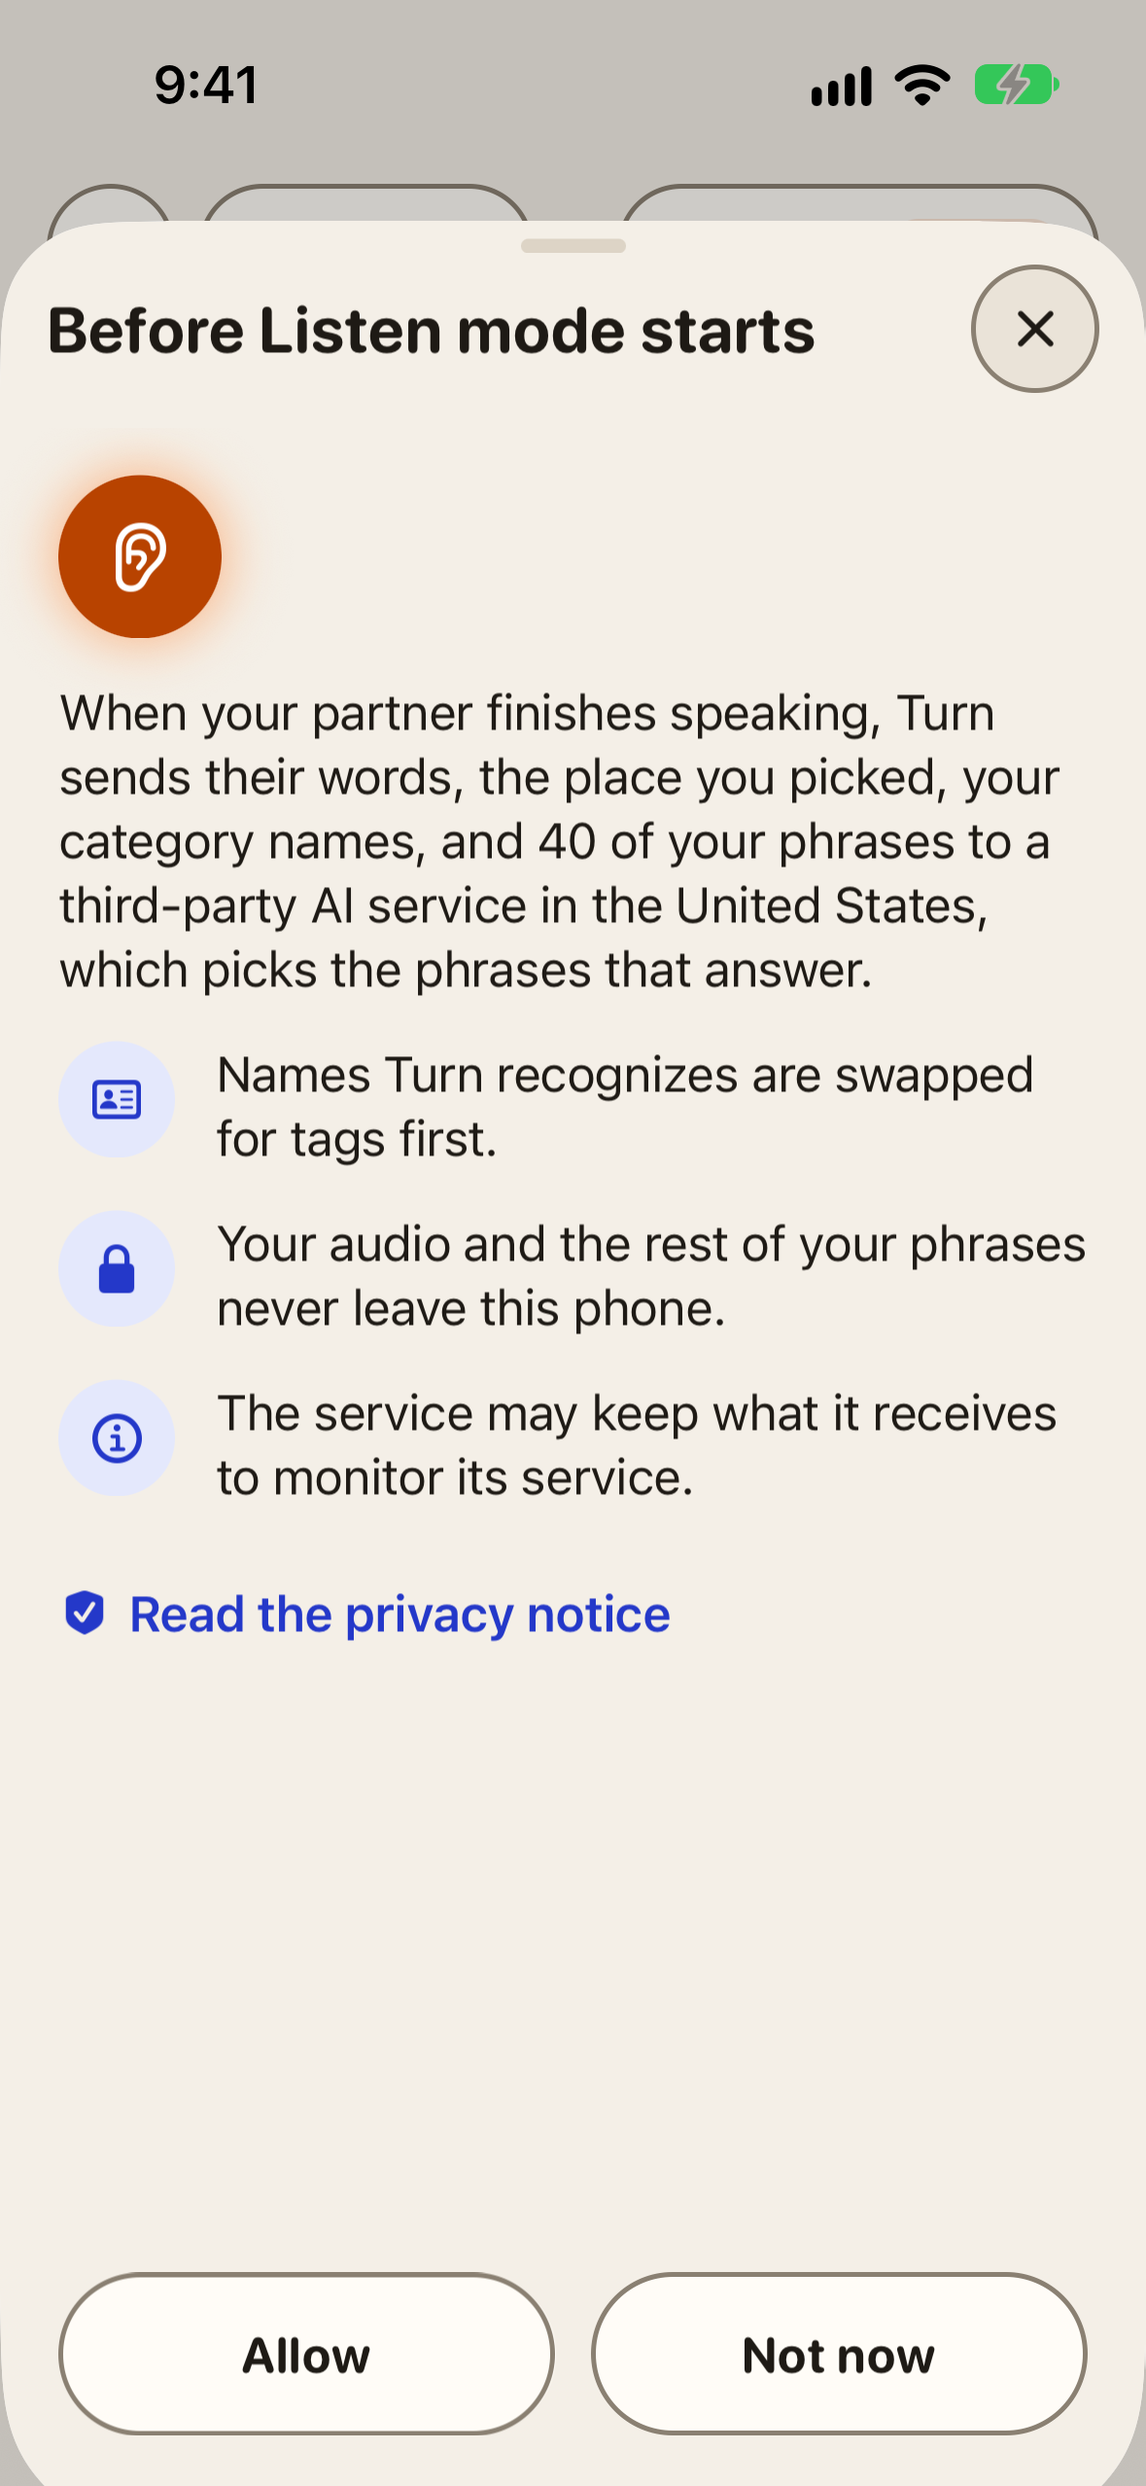
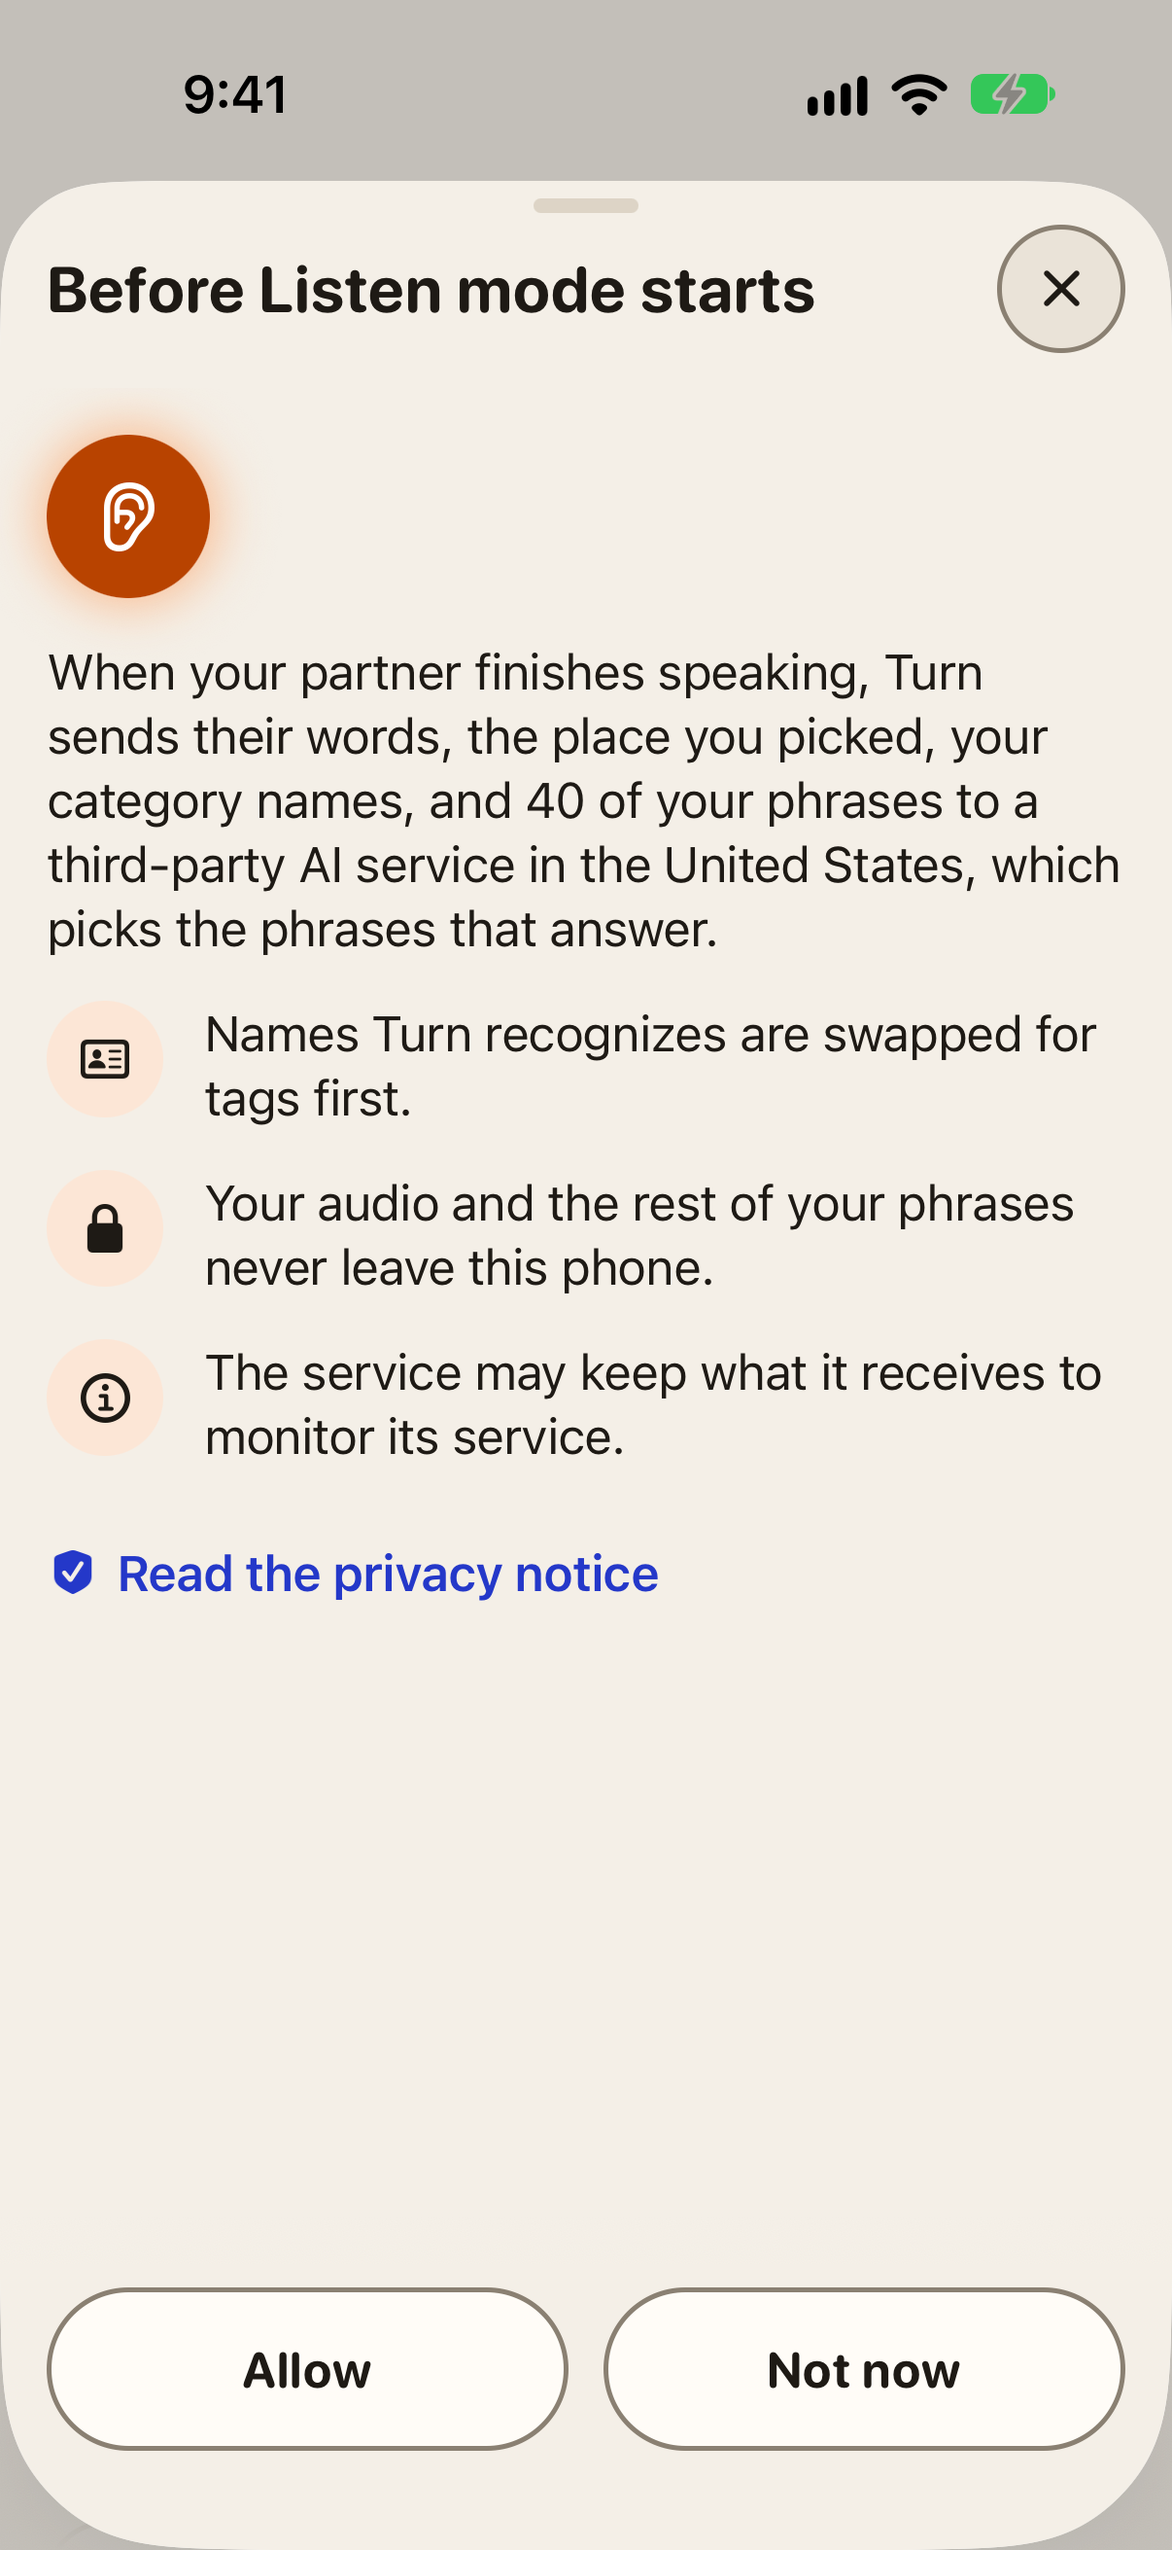
docs: refresh README captures and companion guide

Changed region(s): [[0.0, 0.0, 1.0, 0.68], [0.5191, 0.8963, 1.0, 1.0], [0.0, 0.8963, 0.4885, 1.0]]

diff --git a/scripts/render-pitch-assets.py b/scripts/render-pitch-assets.py
@@ -84,8 +84,8 @@ def hero(dark: bool) -> None:
     text(draw, (162, 332), "Turn", 158, foreground, 700)
     text(draw, (168, 545), "SPEAK / LISTEN / REPLY", 38, muted, 700)
     draw.line((166, 630, 686, 630), fill=muted, width=3)
-    rounded_image(canvas, Image.open(OUT / "turn-iphone16-ios27.png"), (910, 48), 764, 32)
-    rounded_image(canvas, Image.open(OUT / "listen-consent.png"), (1340, 48), 764, 32)
+    rounded_image(canvas, Image.open(OUT / "turn-iphone18-pro-ios27.png"), (910, 48), 764, 32)
+    rounded_image(canvas, Image.open(OUT / "listen-consent-iphone18-pro-ios27.png"), (1340, 48), 764, 32)
     canvas.convert("RGB").save(OUT / ("readme-hero-dark.png" if dark else "readme-hero-light.png"), optimize=True)
 
 
@@ -121,6 +121,8 @@ def aha() -> None:
 
 if __name__ == "__main__":
     assert Image.open(OUT / "turn-iphone16-ios27.png").size == (1179, 2556)
+    assert Image.open(OUT / "turn-iphone18-pro-ios27.png").size == (1206, 2622)
+    assert Image.open(OUT / "listen-consent-iphone18-pro-ios27.png").size == (1206, 2622)
     thumbnail()
     gallery(
         "devpost-gallery-replies.png",

diff --git a/README.md b/README.md
@@ -7,7 +7,7 @@
   <a href="https://github.com/M1KUAPP/Turn">
     <picture>
       <source media="(prefers-color-scheme: dark)" srcset="assets/pitch/readme-hero-dark.png">
-      <img src="assets/pitch/readme-hero-light.png" alt="Turn app icon beside the Listen consent screen and a conversation where How was physio? has It was hard ready to say.">
+      <img src="assets/pitch/readme-hero-light.png" alt="Turn app icon beside iPhone 18 Pro captures of the Clinic reply row and partner consent card.">
     </picture>
   </a>
 
@@ -101,11 +101,15 @@ The hosted decision model's top 6 leads embeddings by 29.7 points, with a 95% pa
 
 ### Screenshots
 
-|                                                                  Speaking grid                                                                  |                                                                 Partner consent                                                                 |                                                               Suggested replies                                                                |
-| :---------------------------------------------------------------------------------------------------------------------------------------------: | :---------------------------------------------------------------------------------------------------------------------------------------------: | :--------------------------------------------------------------------------------------------------------------------------------------------: |
-| <img src="assets/readme/screenshots/speaking-grid.png" alt="Clinic speaking grid with conversation phrases and the Quick category" width="240"> |   <img src="assets/readme/screenshots/partner-consent.png" alt="Consent card asking whether Turn may listen to the conversation" width="240">   | <img src="assets/readme/screenshots/suggested-replies.png" alt="Turn offers saved replies after the partner asks How was physio?" width="240"> |
-|                                                             **Phrase bank editor**                                                              |                                                             **Turn Listen paywall**                                                             |                                                                  **Settings**                                                                  |
-|   <img src="assets/readme/screenshots/phrase-bank-editor.png" alt="Chat category in the phrase bank with editable saved phrases" width="240">   | <img src="assets/readme/screenshots/turn-listen-paywall.png" alt="Turn Listen paywall with three promises and a one-time purchase" width="240"> | <img src="assets/readme/screenshots/settings.png" alt="Turn Settings with voice, Listen mode, phrase bank, and purchase options" width="240">  |
+|                                                                                       Speaking grid                                                                                        |                                                                                      Partner consent                                                                                      |                                                                                         Suggested replies                                                                                         |
+| :----------------------------------------------------------------------------------------------------------------------------------------------------------------------------------------: | :---------------------------------------------------------------------------------------------------------------------------------------------------------------------------------------: | :-----------------------------------------------------------------------------------------------------------------------------------------------------------------------------------------------: |
+| <img src="assets/readme/screenshots/speaking-grid.png" alt="Clinic speaking grid with the conversation strip, Quick phrases, and floating Type, Repeat, Up, and Down toolbar" width="240"> | <img src="assets/readme/screenshots/partner-consent.png" alt="Partner consent card explaining Listen mode, with an under-18 switch and They agreed and They said no buttons" width="240"> | <img src="assets/readme/screenshots/suggested-replies.png" alt="Clinic reply row offering It went well, It was hard, It’s getting worse, and I’m good, thanks after How was physio?" width="240"> |
+|                                                                                   **Phrase bank editor**                                                                                   |                                                                                  **Turn Listen paywall**                                                                                  |                                                                                           **Settings**                                                                                            |
+|     <img src="assets/readme/screenshots/phrase-bank-editor.png" alt="Chat phrase bank with starter phrases, pencil edit buttons, and controls to reorder or add phrases" width="240">      |   <img src="assets/readme/screenshots/turn-listen-paywall.png" alt="Turn Listen paywall showing Keep Listen mode on, a US$24.99 one-time purchase, and Restore Purchases" width="240">    |    <img src="assets/readme/screenshots/settings.png" alt="Settings with voice and speech rate, Companion Off, Listen service Working, places, phrase bank, and purchase options" width="240">     |
+
+|                                                                     **Choose a companion**                                                                     |                                                             **Home with Ren**                                                              |                                                                        **Partner view**                                                                         |
+| :------------------------------------------------------------------------------------------------------------------------------------------------------------: | :----------------------------------------------------------------------------------------------------------------------------------------: | :-------------------------------------------------------------------------------------------------------------------------------------------------------------: |
+| <img src="assets/readme/screenshots/companion-settings.png" alt="Companion settings with Ren, Suit, Office, and Ice face choices and Let it move" width="240"> | <img src="assets/readme/screenshots/companion-home.png" alt="Ren beside Home’s floating toolbar, below the Quick phrase grid" width="240"> | <img src="assets/readme/screenshots/companion-partner-view.png" alt="Partner view with Ren, I have something to say in big text, and Say it again" width="240"> |
 
 <p align="right"><a href="#readme-top">&uarr;</a></p>
 
@@ -115,23 +119,25 @@ The steps below follow the Simulator build, where the partner's line is typed; o
 
 1. **Pick a place.** After reviewing the starter bank, the speaking grid has about 150 phrases in categories. Choose **Clinic** as the place at the top of the grid.
 
-   <img src="assets/readme/screenshots/step-1-pick-a-place.png" alt="Place picker showing Home, Clinic, Shop, and Out" width="300">
+   <img src="assets/readme/screenshots/step-1-pick-a-place.png" alt="Place menu with Home selected, Clinic, Shop, Out, and Edit places" width="300">
 
 2. **Speak.** Tap any phrase to hear it in a system voice or your Personal Voice. Tap **Type** to speak typed words, which join the phrase bank.
 
-   <img src="assets/readme/screenshots/step-2-speak.png" alt="Type composer with I need a break ready to speak" width="300">
+   <img src="assets/readme/screenshots/step-2-speak.png" alt="Type composer with I need a break, the Speak button, and the iOS keyboard" width="300">
 
 3. **Start Listen mode.** Tap **Listen**, then **Allow** to let Turn send your phrases and the partner's words to the hosted decision model. Show the partner the consent card and tap **They agreed**.
 
-   <img src="assets/readme/screenshots/step-3-listen.png" alt="Privacy step shown before Listen mode begins, with Allow and Not now buttons" width="300">
+   <img src="assets/readme/screenshots/step-3-listen.png" alt="Before Listen mode starts sheet explaining what is sent to the AI service, with the privacy notice, Allow, and Not now" width="300">
 
 4. **Answer.** Tap **Tap here to type what they say.**, enter "How was physio?", and tap **Send**. "It was hard" appears in the row of suggested replies, though the two share no content word. Tap it to say it.
 
-   <img src="assets/readme/screenshots/step-4-answer.png" alt="Suggested replies include It was hard after the partner asks How was physio?" width="300">
+   <img src="assets/readme/screenshots/step-4-answer.png" alt="How was physio? above four saved replies including It was hard, with the floating speaking toolbar below" width="300">
 
 5. **Keep listening.** Listen mode answers 20 partner lines for free; the 21st opens the Turn Listen paywall. To buy it, open **Settings**, tap **Unlock Listen mode**, and complete the purchase in RevenueCat's Test Store. **Restore Purchases** in Settings refreshes the status after a reinstall.
 
-   <img src="assets/readme/screenshots/step-5-keep-listening.png" alt="Turn Listen paywall with the one-time price, Unlock Listen mode, and Restore Purchases" width="300">
+   <img src="assets/readme/screenshots/step-5-keep-listening.png" alt="Turn Listen paywall with the US$24.99 one-time price, Unlock Listen mode, Restore Purchases, and privacy notice" width="300">
+
+For a face beside the toolbar, open **Settings → Companion** and choose Ren, Suit, Office, or Ice. Tap the face after speaking to show the partner your line in big text with **Say it again**.
 
 <p align="right"><a href="#readme-top">&uarr;</a></p>
 
@@ -142,7 +148,9 @@ The steps below follow the Simulator build, where the partner's line is typed; o
 - **Replies from what the partner said.** One big button when Turn is confident, up to six replies otherwise, and no change when nothing fits. Yes, No, and Not sure come first for a yes-or-no question and always keep their places.
 - **A steady row.** A reply keeps its slot until a new one wins by a clear margin, and the grid never reorders itself.
 - **A conversation strip.** Five fixed phrases that manage the conversation, such as "Wait, I'm typing" and "Sorry, say that again".
-- **A face for your voice.** An optional companion beside the toolbar mouths what Turn says, looks up while the partner talks, and turns the screen to the partner with the line in big text.
+- **A face for your voice.** In **Settings → Companion**, choose Ren, Suit, Office, or Ice; the companion is Off by default. Beside the toolbar, the face mouths what Turn says, looks up while the partner’s words arrive, and looks down while you type.
+- **A view for the partner.** Tap the face to show the spoken line in big text with **Say it again**. In each place’s sheet, **Show the face here** turns the face on or off for that place.
+- **A face that moves with you.** The live Live2D face breathes and its hair follows its physics when **Let it move** is on and Reduce Motion is off. Otherwise, it holds still.
 - **Listening that's agreed and visible.** Your permission before any phrase leaves the phone, the partner's consent card each time listening starts, a light while it listens, and a switch that keeps a partner under 18 from being heard.
 - **Private by default.** No accounts. The phrase bank stays on the phone, names become tags before a line leaves it, and no audio is recorded. The [privacy notice](PRIVACY.md) is also in the app, under **Settings** and **About**.
 - **Useful offline.** Without a network, or when the model service is slow or down, the phone ranks phrases itself and says Listen mode is degraded.

diff --git a/docs/pitch-assets.md b/docs/pitch-assets.md
@@ -11,14 +11,18 @@ Contents:
 
 <picture>
   <source media="(prefers-color-scheme: dark)" srcset="../assets/pitch/readme-hero-dark.png">
-  <img src="../assets/pitch/readme-hero-light.png" alt="Turn app icon beside the Listen consent screen and a conversation where How was physio? has It was hard ready to say.">
+  <img src="../assets/pitch/readme-hero-light.png" alt="Turn app icon beside iPhone 18 Pro captures of the Clinic reply row and partner consent card.">
 </picture>
 
 Your own words, in time for your turn.
 
 ![A partner asks How was physio? and Turn shows the saved reply It was hard.](/assets/pitch/readme-aha.gif)
 
-The logline is text so it remains readable and selectable. The GIF's first frame shows both the question and answer when animation is paused. The repository README embeds these images and the v2 screen captures in [`assets/readme/screenshots`](/assets/readme/screenshots).
+The logline is text so it remains readable and selectable. The GIF's first frame shows both the question and answer when animation is paused. The repository README embeds these images and the screen captures in [`assets/readme/screenshots`](/assets/readme/screenshots), including the companion settings, Home with Ren, and partner view.
+
+The README captures use the iPhone 18 Pro Simulator on iOS 27, in light mode at the default text size, with a 9:41 status bar. Each portrait is 1206 by 2622 pixels. They were captured from the [v0.1.0 Simulator release](https://github.com/M1KUAPP/Turn/releases/tag/v0.1.0), built at [`76a1dca`](https://github.com/M1KUAPP/Turn/commit/76a1dcab30c924f87da30c3163b92fb7abda8740).
+
+The two README heroes use their own iPhone 18 Pro inputs: [`turn-iphone18-pro-ios27.png`](/assets/pitch/turn-iphone18-pro-ios27.png), showing the Clinic reply row after “How was physio?”, and [`listen-consent-iphone18-pro-ios27.png`](/assets/pitch/listen-consent-iphone18-pro-ios27.png), showing the partner consent card. These are the same captures as `suggested-replies.png` and `partner-consent.png` in the README screenshot directory.
 
 ## Devpost images
 
@@ -28,6 +32,6 @@ The logline is text so it remains readable and selectable. The GIF's first frame
 
 ![Turn's privacy step beside its partner consent card, showing the two steps before Listen mode begins.](/assets/pitch/devpost-gallery-consent.png)
 
-The [required portrait screenshot](/assets/pitch/turn-iphone16-ios27.png) is 1179 by 2556 pixels, exported from a frame-free iPhone 16 iOS 27 Simulator capture with a 9:41 status bar. Its caption and replies are actual app UI: the partner's line was typed after consent, and Turn ranked saved Clinic phrases. The paywall capture in the README comes from the current Test Store flow.
+The [required portrait screenshot](/assets/pitch/turn-iphone16-ios27.png) is 1179 by 2556 pixels, exported from a frame-free iPhone 16 iOS 27 Simulator capture with a 9:41 status bar. Its caption and replies are actual app UI: the partner's line was typed after consent, and Turn ranked saved Clinic phrases. The Devpost galleries continue to use this iPhone 16 capture with `listen-consent.png` and `listen-permission.png`. The README’s paywall capture comes from the current Test Store flow on the iPhone 18 Pro.
 
 Run `python3 scripts/render-pitch-assets.py` with Pillow installed to rebuild the thumbnail, gallery images, README heroes, and GIF from the committed Simulator captures and Atkinson Hyperlegible Next font. The font's OFL license is in [`assets/pitch/fonts/OFL.txt`](/assets/pitch/fonts/OFL.txt).
